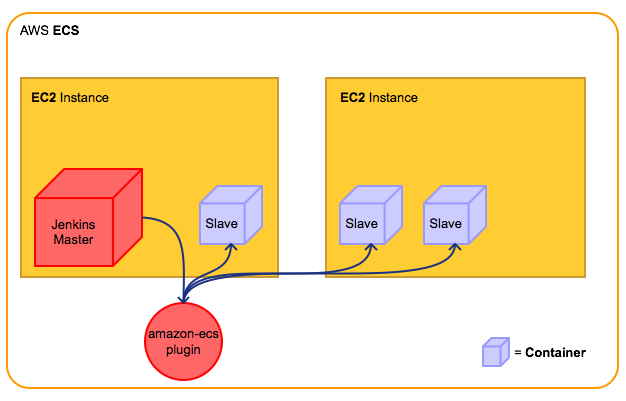
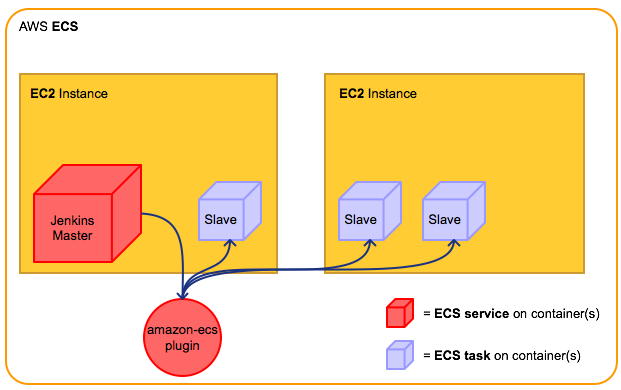
ECS Jenkins post

diff --git a/content/ecs-jenkins.md b/content/ecs-jenkins.md
@@ -1,0 +1,17 @@
++++
+title = "ECS-Powered Jenkins"
+description = "Jenkins running in an ECS service with slaves running in ECS tasks"
+date = "2016-05-13T03:33:00+08:00"
++++
+ 
+I was recently in search of a scalable and cost-effective Jenkins setup using docker containers. I found what I believe satisfies that requirement by running Jenkins on [Amazon EC2 Container Service (ECS)](https://aws.amazon.com/ecs/). The simplest form of the setup involves running a single Jenkins master in an ECS cluster. To run builds in slaves, I use the [Amazon ECS Jenkins plugin](https://wiki.jenkinsci.org/display/JENKINS/Amazon+EC2+Container+Service+Plugin).
+
+The way it works is, you add an ECS cluster as what is called a "Cloud" in the "Manage Jenkins" section of Jenkins configuration, and an "ECS slave template" that describes a docker image and its resource constraints. When you define your job configuration, you have to specify a restriction for where the job can run that matches a label you provided while declaring a slave template. The setup steps are well documented in the ECS plugin page.
+
+I created a Terraform module that automates provisioning Jenkins on ECS using Terraform, it also provides a Terraform script for building and releasing your custom Jenkins image to [Amazon EC2 Container Registry (ECR)](https://aws.amazon.com/ecr/). You can find the Github repo [here](https://github.com/shuaibiyy/ecs-jenkins).
+
+With everything set up - when builds are run, the ECS plugin starts an ECS task running a docker container from a configured slave template docker image and runs the build on it. ECS tasks are ephemeral, so once the build completes or fails, the task gets cleaned up. Here's an illustration of how everything ties up together:
+
+![ECS Jenkins](https://rawgit.com/shuaibiyy/callme.ninja/master/themes/hugo-cactus-theme/images/ecs-jenkins.png)
+
+In conclusion, I find that this is a superior approach over spot instances because builds are unlikely to be terminated abruptly and better than long running Jenkins slaves because of their upfront resource commitment. I am yet to see how this works with autoscaling though, as I imagine that if the provisioned EC2 instances don't have the capacity to serve the requested builds, new instances should be spawned up based on the autoscaling policy.

diff --git a/content/haproxy-config-mgmt-cosmos-cosmonaut.md b/content/haproxy-config-mgmt-cosmos-cosmonaut.md
@@ -12,6 +12,9 @@ Deployment solutions for all sorts of application architectures are pretty commo
 * [HAProxy](http://www.haproxy.org/) for load balancing and URL routing.
 * [Weave NET](https://www.weave.works/products/weave-net/) to provide an overlay network for Docker; bridging together multiple hosts and allowing containers to find each other.
 * [Terraform](https://www.terraform.io/) for provisioning the entire infrastructure.
+
+I also wrote and added the following tools to the toolset to fulfill the requirements of a fully automated deployment infrastructure:
+
 * [Cosmos](https://github.com/shuaibiyy/cosmos) for managing HAProxy configurations.
 * [Cosmonaut](https://github.com/shuaibiyy/cosmonaut) for reloading HAProxy when container lifecycle events occur.
 
